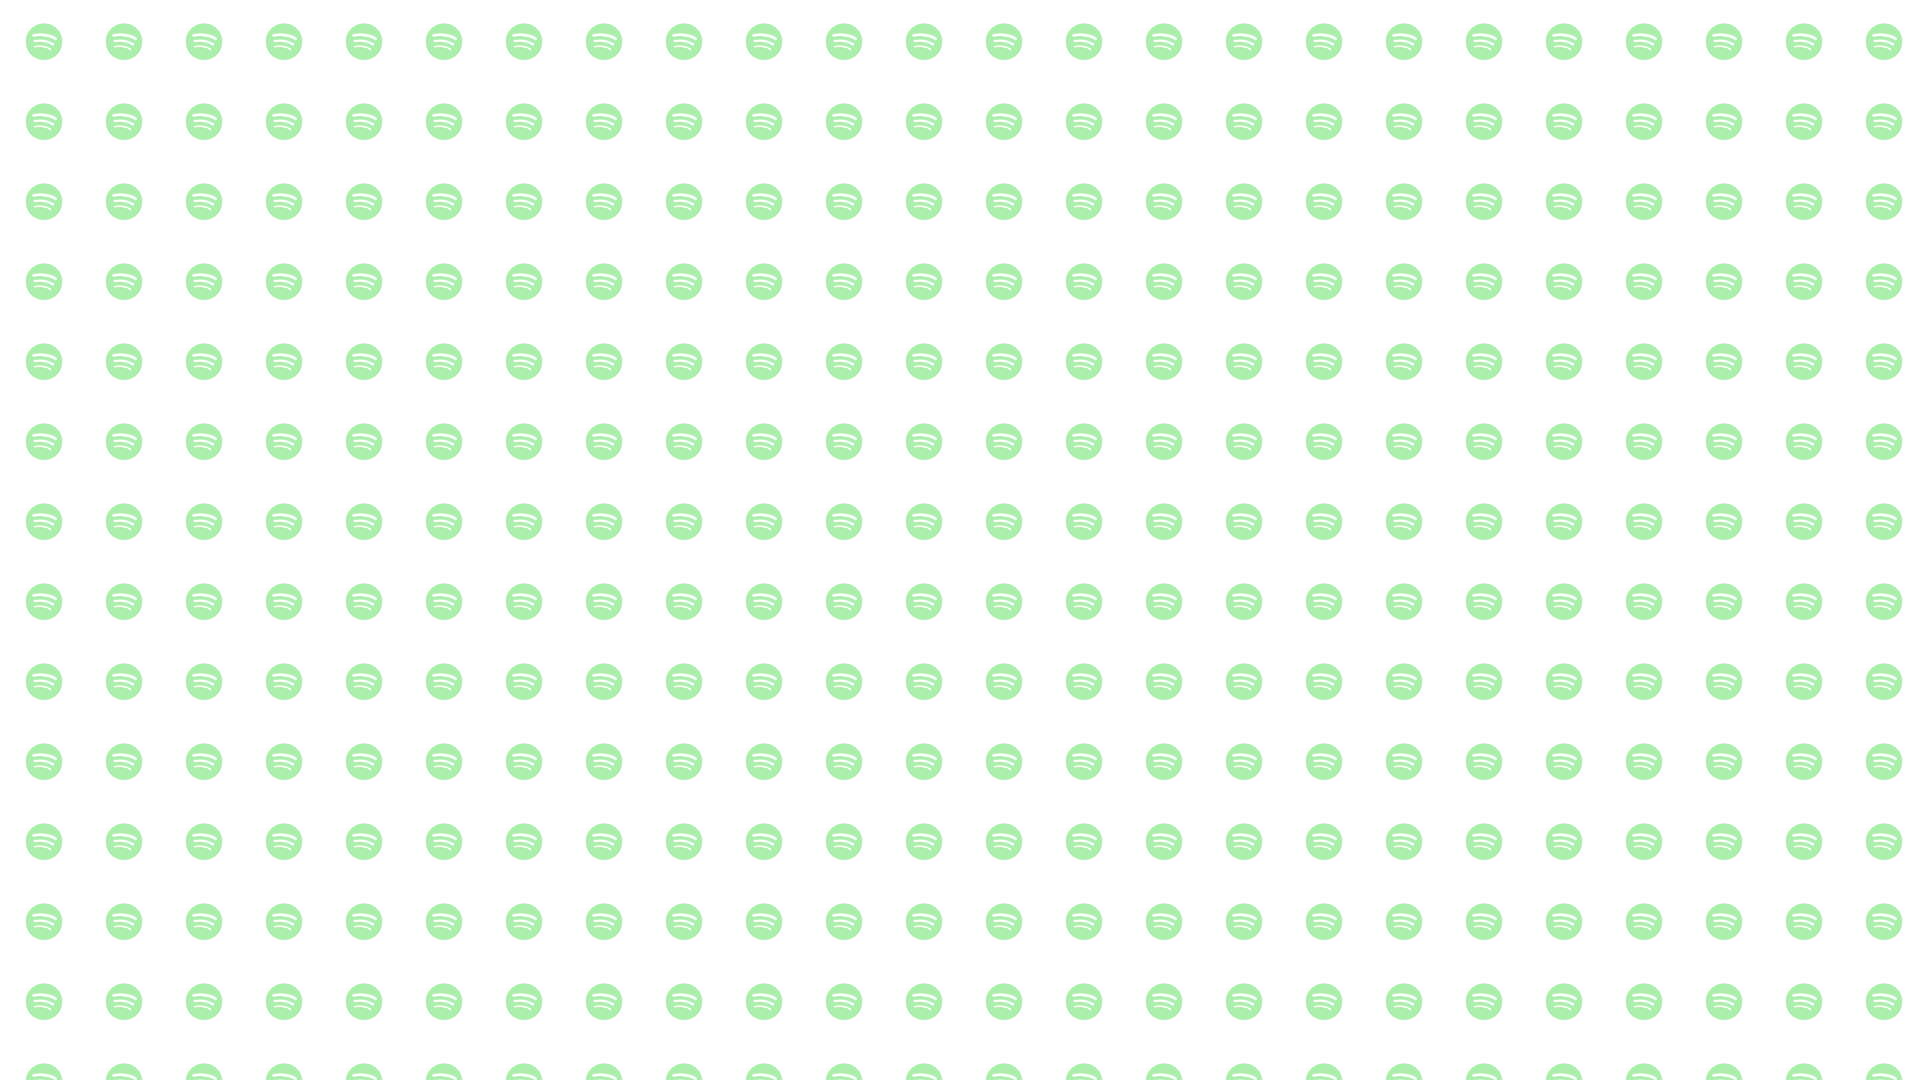
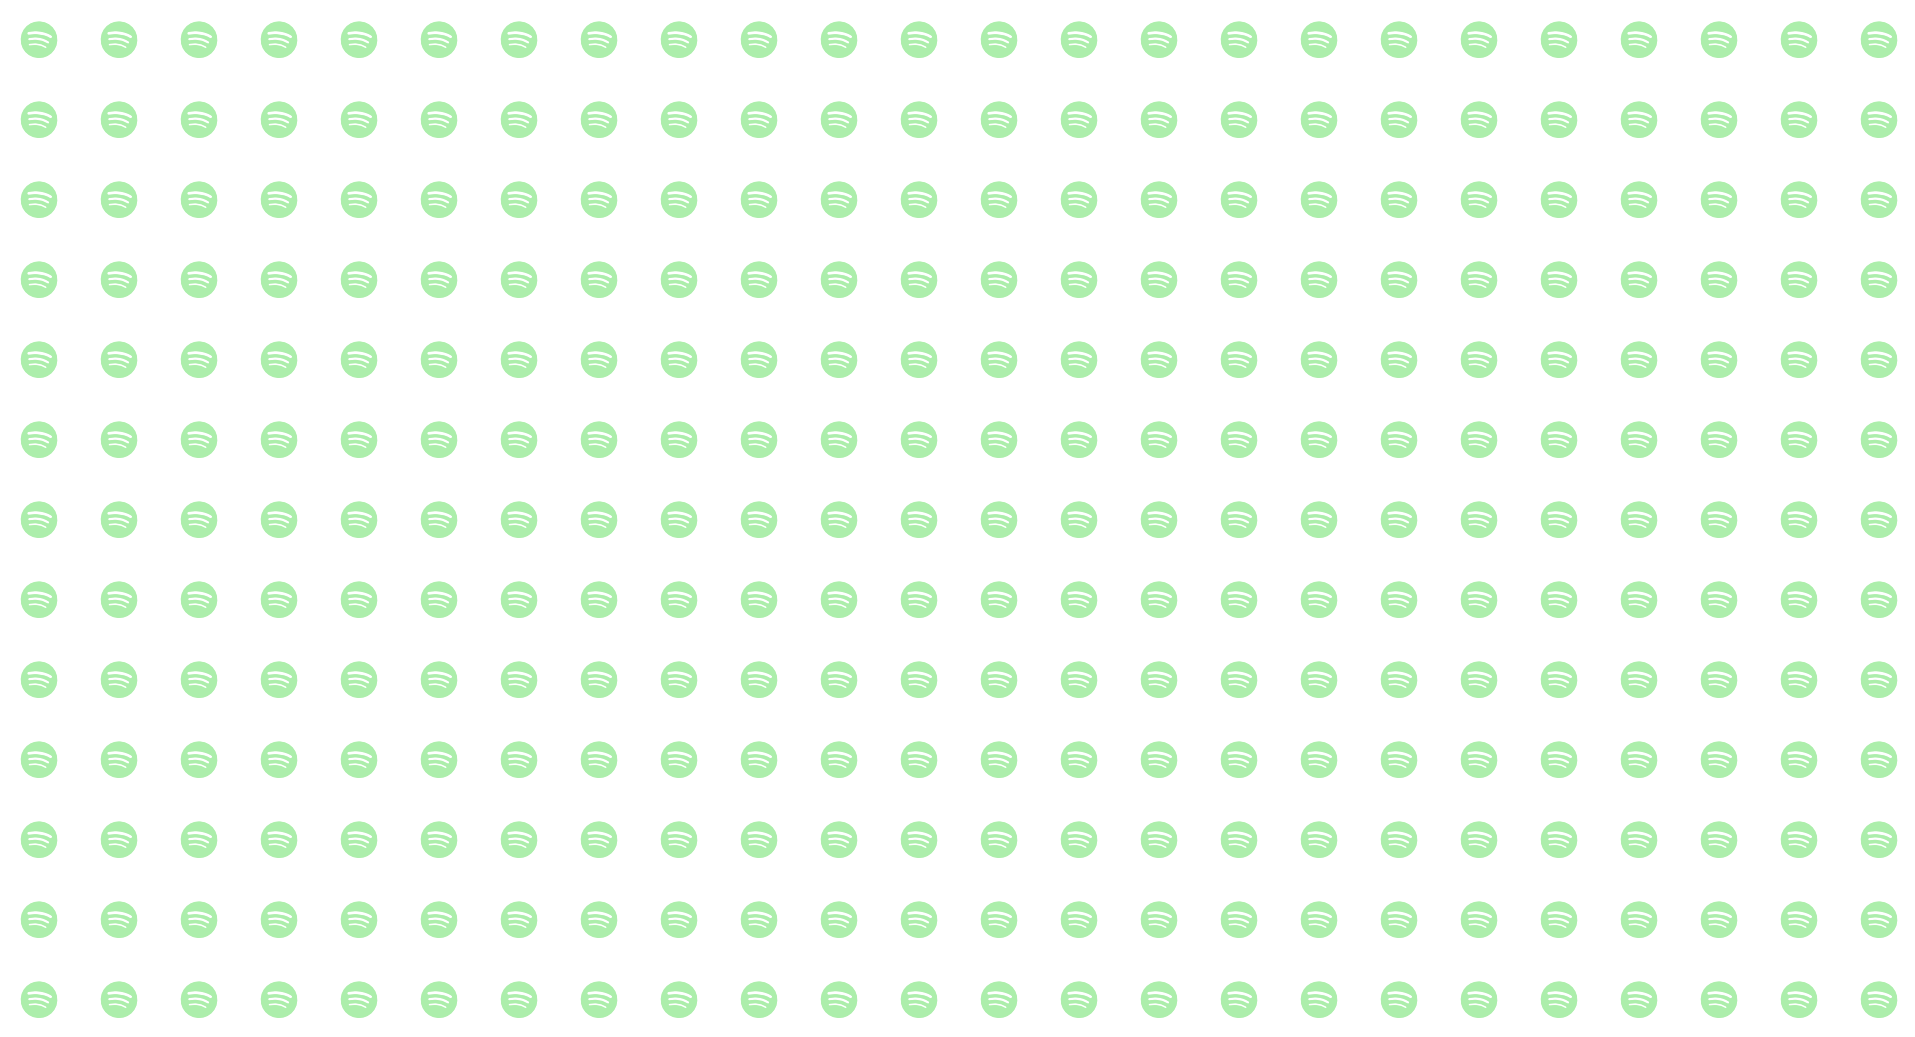
Updated styling on tracks and artists page.

diff --git a/templates/user_data_artists.html b/templates/user_data_artists.html
@@ -13,7 +13,7 @@
 	<!-- css styling taken from w3 schools templates -->
 </head>
 
-<body>
+<body class="background_faded">
 	<div>
 
 
@@ -25,12 +25,14 @@
 			{% elif data2 == 'medium_term' %}
 				<h2>Last 6 Months</h2>
 			{% else %}
-				<h2>All Time</h2>	
+				<h2>All Time</h2>
 			{% endif %}
 			<div>
-				<a type="button" class="btn btn-success" href='/user_data?time_range=short_term&search=artists'>Last Month</a>
-				<a type="button" class="btn btn-success" href='/user_data?time_range=medium_term&search=artists'>Last 6 Months</a>
-				<a type="button" class="btn btn-success" href='/user_data?time_range=long_term&search=artists'>All Time</a>
+				<div>
+					<a type="button" class="btn btn-success" href='/user_data?time_range=short_term&search=artists'>Last Month</a>
+					<a type="button" class="btn btn-success" href='/user_data?time_range=medium_term&search=artists'>Last 6 Months</a>
+					<a type="button" class="btn btn-success" href='/user_data?time_range=long_term&search=artists'>All Time</a>
+				</div>
 				<a type="button" class="btn btn-success" href='/'>Home</a>
 				<a type="button" class="btn btn-success" href='/user_data?time_range=short_term&search=tracks'>Top Tracks</a>
 			</div>
@@ -69,7 +71,7 @@
 <br>
 
 				<div class='plots_list'>
-				
+
 				</div>
 
 			</div>

diff --git a/templates/user_data.html b/templates/user_data.html
@@ -13,7 +13,7 @@
 	<!-- css styling taken from w3 schools templates -->
 </head>
 
-<body>
+<body class="background_faded">
 	<div>
 		<div class='header'>
 			<h1>[User] Top Tracks and Data</h1>
@@ -22,7 +22,7 @@
 			{% elif time == 'medium_term' %}
 				<h2>Last 6 Months</h2>
 			{% else %}
-				<h2>All Time</h2>	
+				<h2>All Time</h2>
 			{% endif %}
 			<div>
 				<div>
@@ -68,6 +68,8 @@
 					<br>
 					<div class='plots_list'>
 						<h2 style="text-align:center">Audio Features Distributions</h2>
+						<br>
+			
 					{% for name, svg in plots.items() %}
 							<div class='{{ name }}'>
 								<div class='plot_text'>

diff --git a/static/styles/style.css b/static/styles/style.css
@@ -30,6 +30,10 @@ body {
     background-image: url('/static/tile_background.png')
 }
 
+.background_faded {
+  background-image: url('/static/tile_background_faded.png')
+}
+
 /* Style the header */
 .header {
   background-color: #f1f1f1;
@@ -86,6 +90,8 @@ body {
 .plot_text {
   text-align: center;
   width:440px;
+  font-size: 20px;
+  font-weight: 400;
 }
 
 
@@ -93,6 +99,7 @@ body {
   width:300px;
   float:left;
   margin-right: 100px;
+  margin-left:100px;
 }
 
 .key {
@@ -105,6 +112,7 @@ body {
   width:300px;
   float:left;
   margin-right: 100px;
+  margin-left: 100px;
 }
 
 .tempo {
